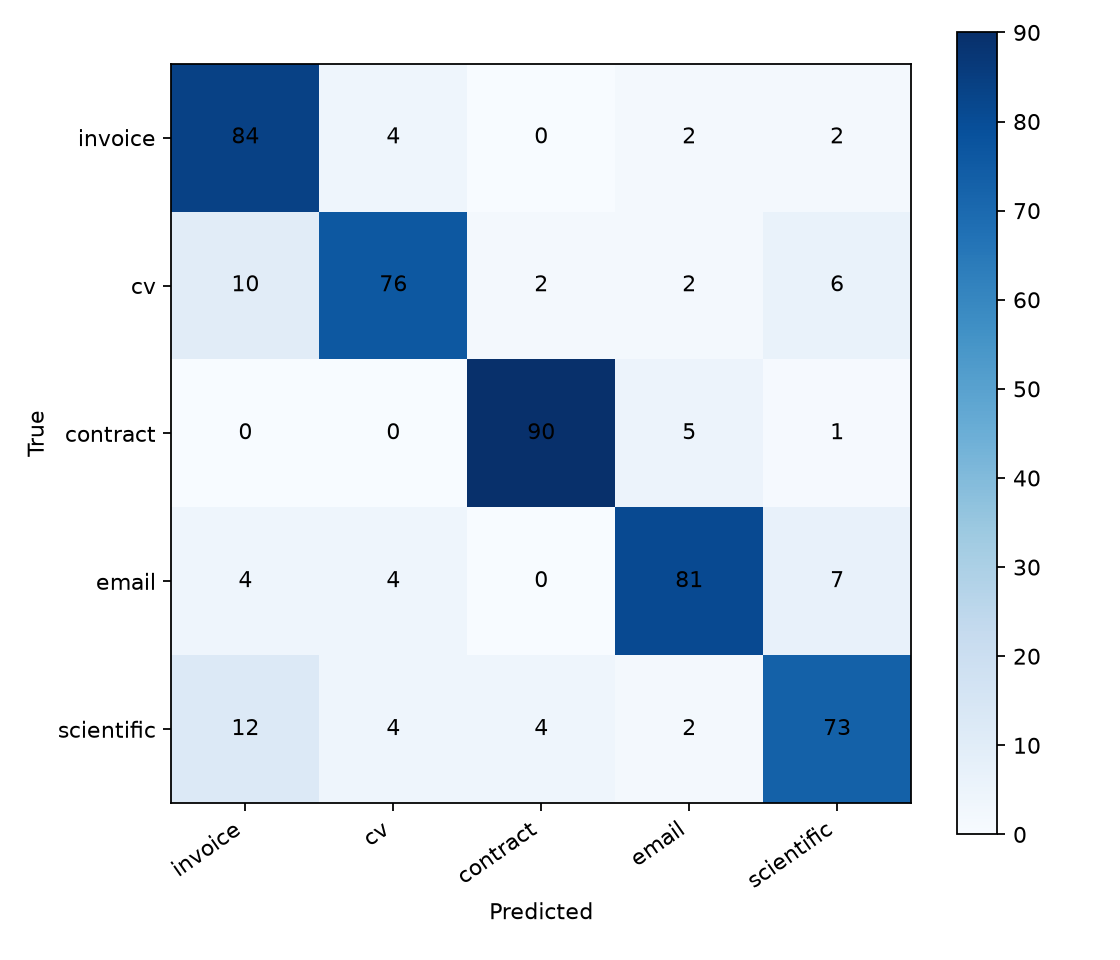
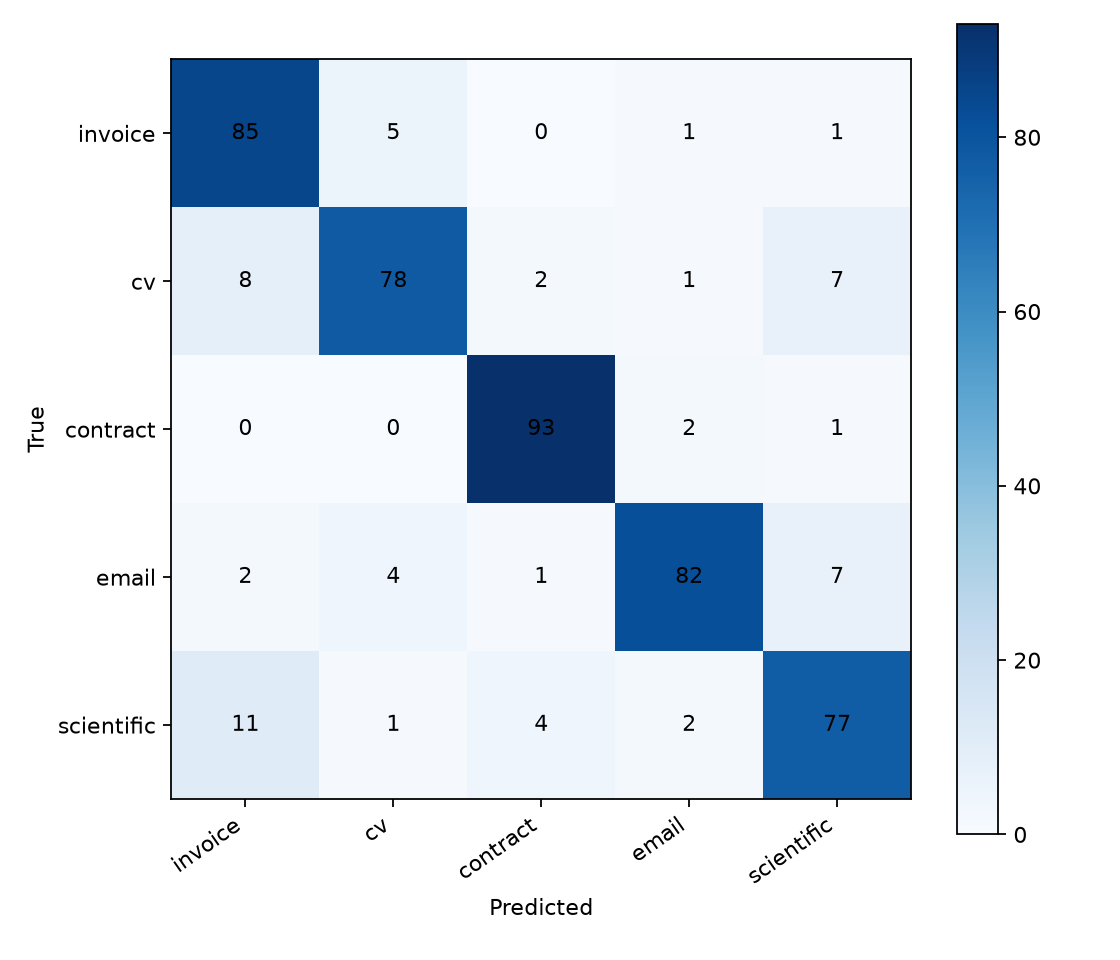
final add-ons

diff --git a/scripts/import_second_training_data.py b/scripts/import_second_training_data.py
@@ -4,6 +4,7 @@ import argparse
 import csv
 import json
 import os
+import re
 import shutil
 import subprocess
 import sys
@@ -66,7 +67,7 @@ MULTIPAGE_DIR = DATA_DIR / "multipage"
 DOCUMENT_MANIFEST_PATH = MULTIPAGE_DIR / "document_manifest.csv"
 PAGE_MANIFEST_PATH = MULTIPAGE_DIR / "page_manifest.csv"
 CHUNK_MANIFEST_PATH = MULTIPAGE_DIR / "chunk_manifest.jsonl"
-STAGING_ROOT = DATA_DIR / "staging_second_training_import"
+STAGING_ROOT = DATA_DIR / "staging_training_import"
 RESULTS_DIR = PROJECT_ROOT / "results" / "dataset_expansion"
 TOKENIZER_CANDIDATES = (
     PROJECT_ROOT / "models" / "xlm_roberta_multipage" / "best_model",
@@ -141,11 +142,20 @@ FAILED_PAGE_FIELDS = (
 def parse_args() -> argparse.Namespace:
     parser = argparse.ArgumentParser(
         description=(
-            "Import local second-training documents safely into the existing "
+            "Import local training documents safely into the existing "
             "multi-page dataset. New documents are assigned only to train."
         )
     )
     parser.add_argument("--candidate-root", type=Path, default=DEFAULT_CANDIDATE_ROOT)
+    parser.add_argument(
+        "--import-name",
+        type=import_name_arg,
+        default="second_training",
+        help=(
+            "Stable identifier used for document IDs, destination folder, backups, "
+            "and report names (default: second_training)."
+        ),
+    )
     parser.add_argument("--commit", action="store_true", help="Apply the audited import.")
     parser.add_argument("--per-document-timeout", type=int, default=120)
     parser.add_argument("--image-similarity-threshold", type=float, default=0.94)
@@ -155,6 +165,13 @@ def parse_args() -> argparse.Namespace:
     if args.per_document_timeout < 5:
         parser.error("--per-document-timeout must be at least 5 seconds")
     return args
+
+
+def import_name_arg(value: str) -> str:
+    normalized = re.sub(r"[^a-z0-9]+", "_", str(value).casefold()).strip("_")
+    if not normalized:
+        raise argparse.ArgumentTypeError("--import-name must contain a letter or number")
+    return normalized
 
 
 def worker_main(job_path: Path) -> None:
@@ -186,7 +203,9 @@ def candidate_label(path: Path, root: Path) -> str:
     return CLASS_ALIASES[folder]
 
 
-def collect_candidates(root: Path) -> tuple[list[dict[str, Any]], list[dict[str, Any]]]:
+def collect_candidates(
+    root: Path, import_name: str
+) -> tuple[list[dict[str, Any]], list[dict[str, Any]]]:
     candidates = []
     failures = []
     for path in sorted(root.rglob("*"), key=lambda item: item.as_posix().casefold()):
@@ -212,7 +231,9 @@ def collect_candidates(root: Path) -> tuple[list[dict[str, Any]], list[dict[str,
                 "relative_path": relative,
                 "label": label,
                 "sha256": digest,
-                "document_id": f"second_train_{label}_{digest[:12]}",
+                "document_id": f"{import_name}_{label}_{digest[:12]}",
+                "import_name": import_name,
+                "source_collection": root.name,
             }
         )
     return candidates, failures
@@ -286,10 +307,10 @@ def audit_candidates(
         try:
             text_hint = candidate_text_hint(path)
             fingerprint = build_fingerprint_record(
-                key=f"second_training:{document_id}",
+                key=f"{candidate['import_name']}:{document_id}",
                 raw_path=path,
                 label=str(candidate["label"]),
-                source="second_training_candidate",
+                source=f"{candidate['import_name']}_candidate",
                 text_hint=text_hint,
                 group_id=document_id,
             )
@@ -375,9 +396,10 @@ def failure_row(
 def final_paths(candidate: Mapping[str, Any]) -> dict[str, Path]:
     document_id = str(candidate["document_id"])
     label = str(candidate["label"])
+    import_name = str(candidate["import_name"])
     extension = Path(candidate["path"]).suffix.casefold()
     return {
-        "raw": DATA_DIR / "raw" / label / "second_training" / f"{document_id}{extension}",
+        "raw": DATA_DIR / "raw" / label / import_name / f"{document_id}{extension}",
         "image": DATA_DIR / "processed" / "images" / f"{document_id}.png",
         "text": DATA_DIR / "processed" / "texts" / f"{document_id}.txt",
         "ocr": DATA_DIR / "processed" / "ocr" / f"{document_id}.json",
@@ -476,7 +498,7 @@ def preprocess_candidates(
 ) -> tuple[list[dict[str, Any]], list[dict[str, str]]]:
     prepared = []
     failures = []
-    for candidate in tqdm(candidates, desc="Preprocessing second-training documents"):
+    for candidate in tqdm(candidates, desc="Preprocessing training documents"):
         item, failure = stage_candidate(candidate, timeout)
         if failure:
             failures.append(failure)
@@ -486,9 +508,9 @@ def preprocess_candidates(
     return prepared, failures
 
 
-def backup_tables() -> Path:
+def backup_tables(import_name: str) -> Path:
     timestamp = datetime.now().strftime("%Y%m%d_%H%M%S")
-    backup_root = PROJECT_ROOT / f"backup_second_training_{timestamp}"
+    backup_root = PROJECT_ROOT / f"backup_{import_name}_{timestamp}"
     paths = (
         METADATA_PATH,
         SOURCE_TRACKING_PATH,
@@ -530,12 +552,14 @@ def metadata_row(candidate: Mapping[str, Any], paths: Mapping[str, Path]) -> dic
 
 
 def source_row(candidate: Mapping[str, Any], row: Mapping[str, str]) -> dict[str, str]:
+    import_name = str(candidate["import_name"])
+    source_collection = str(candidate["source_collection"])
     return {
         "id": str(candidate["document_id"]),
         "label": str(candidate["label"]),
         "raw_path": row["raw_path"],
-        "source_name": "manual_second_training",
-        "source_url_or_dataset": f"local://data/Second_Traning_data/{candidate['relative_path']}",
+        "source_name": f"manual_{import_name}",
+        "source_url_or_dataset": f"local://data/{source_collection}/{candidate['relative_path']}",
         "download_date": date.today().isoformat(),
         "original_id": str(candidate["document_id"]),
         "language": "",
@@ -727,6 +751,7 @@ def verify_existing_split_partition(
 def commit_import(
     prepared: Sequence[dict[str, Any]],
     existing_metadata: list[dict[str, str]],
+    import_name: str,
 ) -> tuple[list[dict[str, str]], list[dict[str, str]], Path, list[dict[str, str]], list[dict[str, str]]]:
     existing_sources = read_csv_rows(SOURCE_TRACKING_PATH) if SOURCE_TRACKING_PATH.is_file() else []
     existing_train = read_csv_rows(SPLITS_DIR / "train.csv", METADATA_FIELDS)
@@ -741,7 +766,7 @@ def commit_import(
     validate_document_manifest(existing_documents)
     old_split_by_id = {row["document_id"]: row["split"] for row in existing_documents}
 
-    backup_root = backup_tables()
+    backup_root = backup_tables(import_name)
     metadata_additions = []
     source_additions = []
     import_rows = []
@@ -811,32 +836,33 @@ def write_reports(
     backup_root: Path | None,
     candidate_count: int,
     accepted_count: int,
+    import_name: str,
 ) -> None:
     RESULTS_DIR.mkdir(parents=True, exist_ok=True)
     atomic_write_csv(
-        RESULTS_DIR / "second_training_duplicate_report.csv",
+        RESULTS_DIR / f"{import_name}_duplicate_report.csv",
         decisions,
         DUPLICATE_REPORT_FIELDS,
     )
     atomic_write_csv(
-        RESULTS_DIR / "second_training_import_failures.csv",
+        RESULTS_DIR / f"{import_name}_import_failures.csv",
         failures,
         FAILURE_FIELDS,
     )
     atomic_write_csv(
-        RESULTS_DIR / "second_training_import_manifest.csv",
+        RESULTS_DIR / f"{import_name}_import_manifest.csv",
         import_rows,
         IMPORT_MANIFEST_FIELDS,
     )
     atomic_write_csv(
-        RESULTS_DIR / "second_training_failed_pages.csv",
+        RESULTS_DIR / f"{import_name}_failed_pages.csv",
         failed_pages,
         FAILED_PAGE_FIELDS,
     )
     decisions_count = Counter(str(row.get("decision", "")) for row in decisions)
     imported_by_label = Counter(str(row.get("label", "")) for row in import_rows)
     lines = [
-        "SECOND TRAINING DATA IMPORT SUMMARY",
+        f"{import_name.upper()} DATA IMPORT SUMMARY",
         "",
         f"Mode: {'COMMIT' if commit else 'DRY RUN'}",
         f"Candidates found: {candidate_count}",
@@ -858,20 +884,20 @@ def write_reports(
     lines.extend(
         [
             "",
-            f"Duplicate report: {RESULTS_DIR / 'second_training_duplicate_report.csv'}",
-            f"Import manifest: {RESULTS_DIR / 'second_training_import_manifest.csv'}",
-            f"Failures: {RESULTS_DIR / 'second_training_import_failures.csv'}",
-            f"Failed pages: {RESULTS_DIR / 'second_training_failed_pages.csv'}",
+            f"Duplicate report: {RESULTS_DIR / f'{import_name}_duplicate_report.csv'}",
+            f"Import manifest: {RESULTS_DIR / f'{import_name}_import_manifest.csv'}",
+            f"Failures: {RESULTS_DIR / f'{import_name}_import_failures.csv'}",
+            f"Failed pages: {RESULTS_DIR / f'{import_name}_failed_pages.csv'}",
             "Training was not started.",
         ]
     )
-    (RESULTS_DIR / "second_training_import_summary.txt").write_text(
+    (RESULTS_DIR / f"{import_name}_import_summary.txt").write_text(
         "\n".join(lines) + "\n", encoding="utf-8"
     )
 
 
-def print_plan(candidates, accepted, decisions, failures) -> None:
-    print("\nSECOND TRAINING DRY RUN")
+def print_plan(candidates, accepted, decisions, failures, import_name: str) -> None:
+    print(f"\n{import_name.upper()} DRY RUN")
     print("=" * 72)
     print(f"Candidates: {len(candidates)}")
     print(f"Accepted as unique: {len(accepted)}")
@@ -893,7 +919,7 @@ def main() -> None:
 
     candidate_root = resolve_candidate_root(args.candidate_root)
     existing_metadata = read_csv_rows(METADATA_PATH, METADATA_FIELDS)
-    candidates, inventory_failures = collect_candidates(candidate_root)
+    candidates, inventory_failures = collect_candidates(candidate_root, args.import_name)
     if not candidates:
         raise ValueError(f"No supported candidates found under: {candidate_root}")
     accepted, decisions, audit_failures = audit_candidates(
@@ -914,8 +940,9 @@ def main() -> None:
             backup_root=None,
             candidate_count=len(candidates),
             accepted_count=len(accepted),
+            import_name=args.import_name,
         )
-        print_plan(candidates, accepted, decisions, failures)
+        print_plan(candidates, accepted, decisions, failures, args.import_name)
         return
 
     prepared, preprocessing_failures = preprocess_candidates(
@@ -923,7 +950,7 @@ def main() -> None:
     )
     failures.extend(preprocessing_failures)
     import_rows, artifact_failures, backup_root, failed_pages, _ = commit_import(
-        prepared, existing_metadata
+        prepared, existing_metadata, args.import_name
     )
     failures.extend(artifact_failures)
     write_reports(
@@ -935,15 +962,16 @@ def main() -> None:
         backup_root=backup_root,
         candidate_count=len(candidates),
         accepted_count=len(accepted),
+        import_name=args.import_name,
     )
-    print("\nSECOND TRAINING IMPORT COMPLETE")
+    print(f"\n{args.import_name.upper()} IMPORT COMPLETE")
     print("=" * 72)
     print(f"Imported documents: {len(import_rows)}")
     for label, count in sorted(Counter(row["label"] for row in import_rows).items()):
         print(f"{label}: {count} -> train")
     print(f"Failures: {len(failures)}")
     print(f"Backup: {backup_root}")
-    print(f"Summary: {RESULTS_DIR / 'second_training_import_summary.txt'}")
+    print(f"Summary: {RESULTS_DIR / f'{args.import_name}_import_summary.txt'}")
     print("Training was NOT started.")
 
 

diff --git a/src/train_layoutlm.py b/src/train_layoutlm.py
@@ -511,3 +511,4 @@ def main():
 
 if __name__ == "__main__":
     main()
+    
